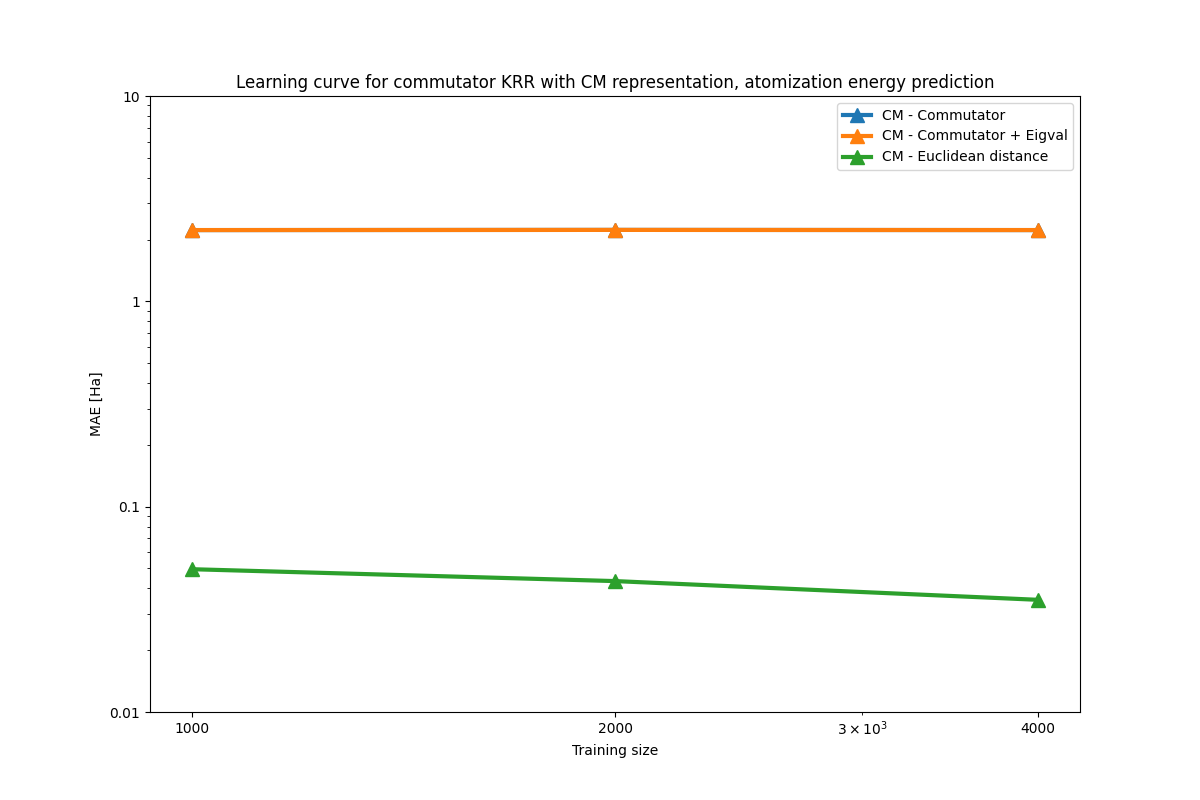
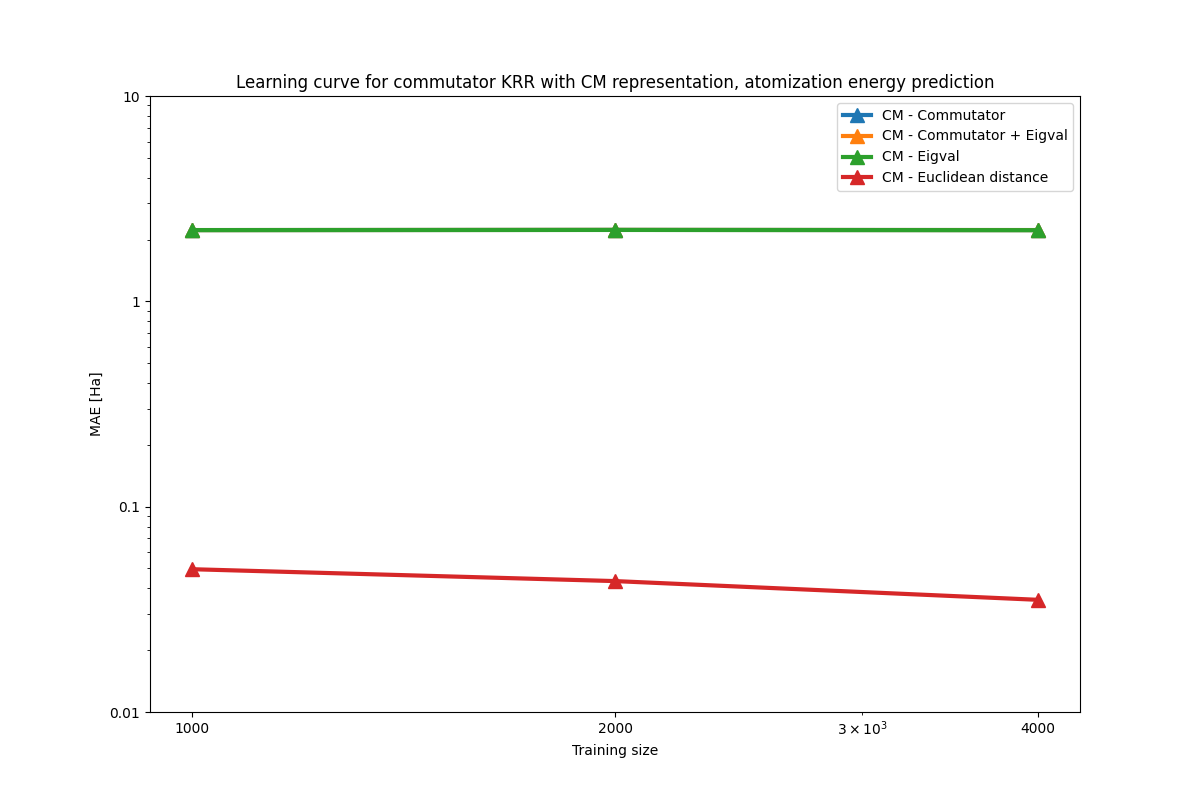
new learning curve

diff --git a/KernelRidge_commutator.py b/KernelRidge_commutator.py
@@ -72,6 +72,28 @@ def KRR_commutator_with_eig(X_train,Y_train,X_test,best_params,kernel='rbf',dist
             k=covariance(dist2,kernel,params)
             return np.dot(k.T,alpha)
 
+def KRR_eig(X_train,Y_train,X_test,best_params,kernel='rbf',dist1='na',dist2='na'):
+    lam = best_params['lambda']
+    params = best_params
+    if type(dist1)==str:
+        dist1=p_distance_eigval_batch(X_train, X_train)
+    K=covariance(dist1,kernel,params)
+    K+=(np.eye(K.shape[0])*lam)
+    try:
+        L=np.linalg.cholesky(K)
+    except:
+        return 'Gram Matrix is not positive definite'
+    else:
+        try:
+            alpha=cho_solve((L,True),Y_train)
+        except:
+            return 'Cholesky decomposition failed, check distance matrices'
+        else:
+            if type(dist2)==str:
+                dist2=p_distance_eigval_batch(X_train, X_test)
+            k=covariance(dist2,kernel,params)
+            return np.dot(k.T,alpha)
+
 @numba.jit(nopython=True)
 def generate_CM(cood,charges,pad):
     size=len(charges)
